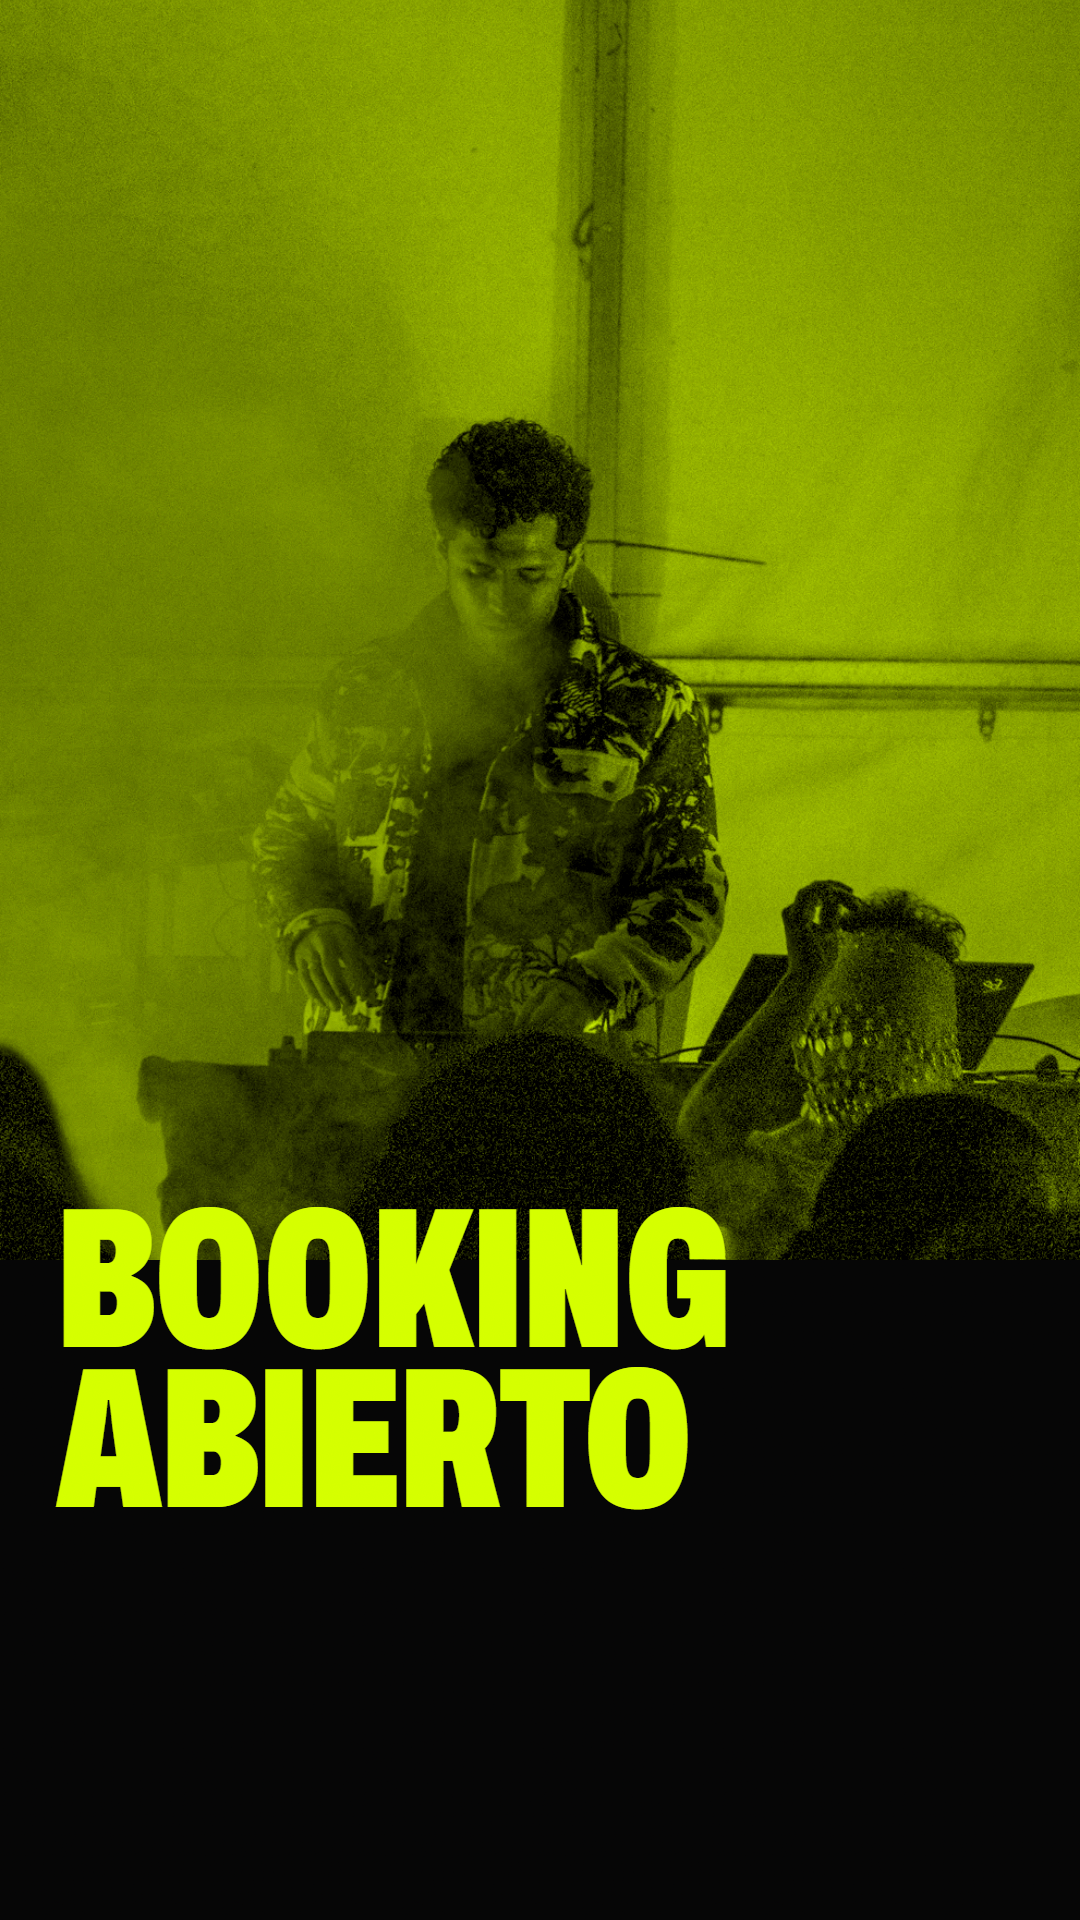
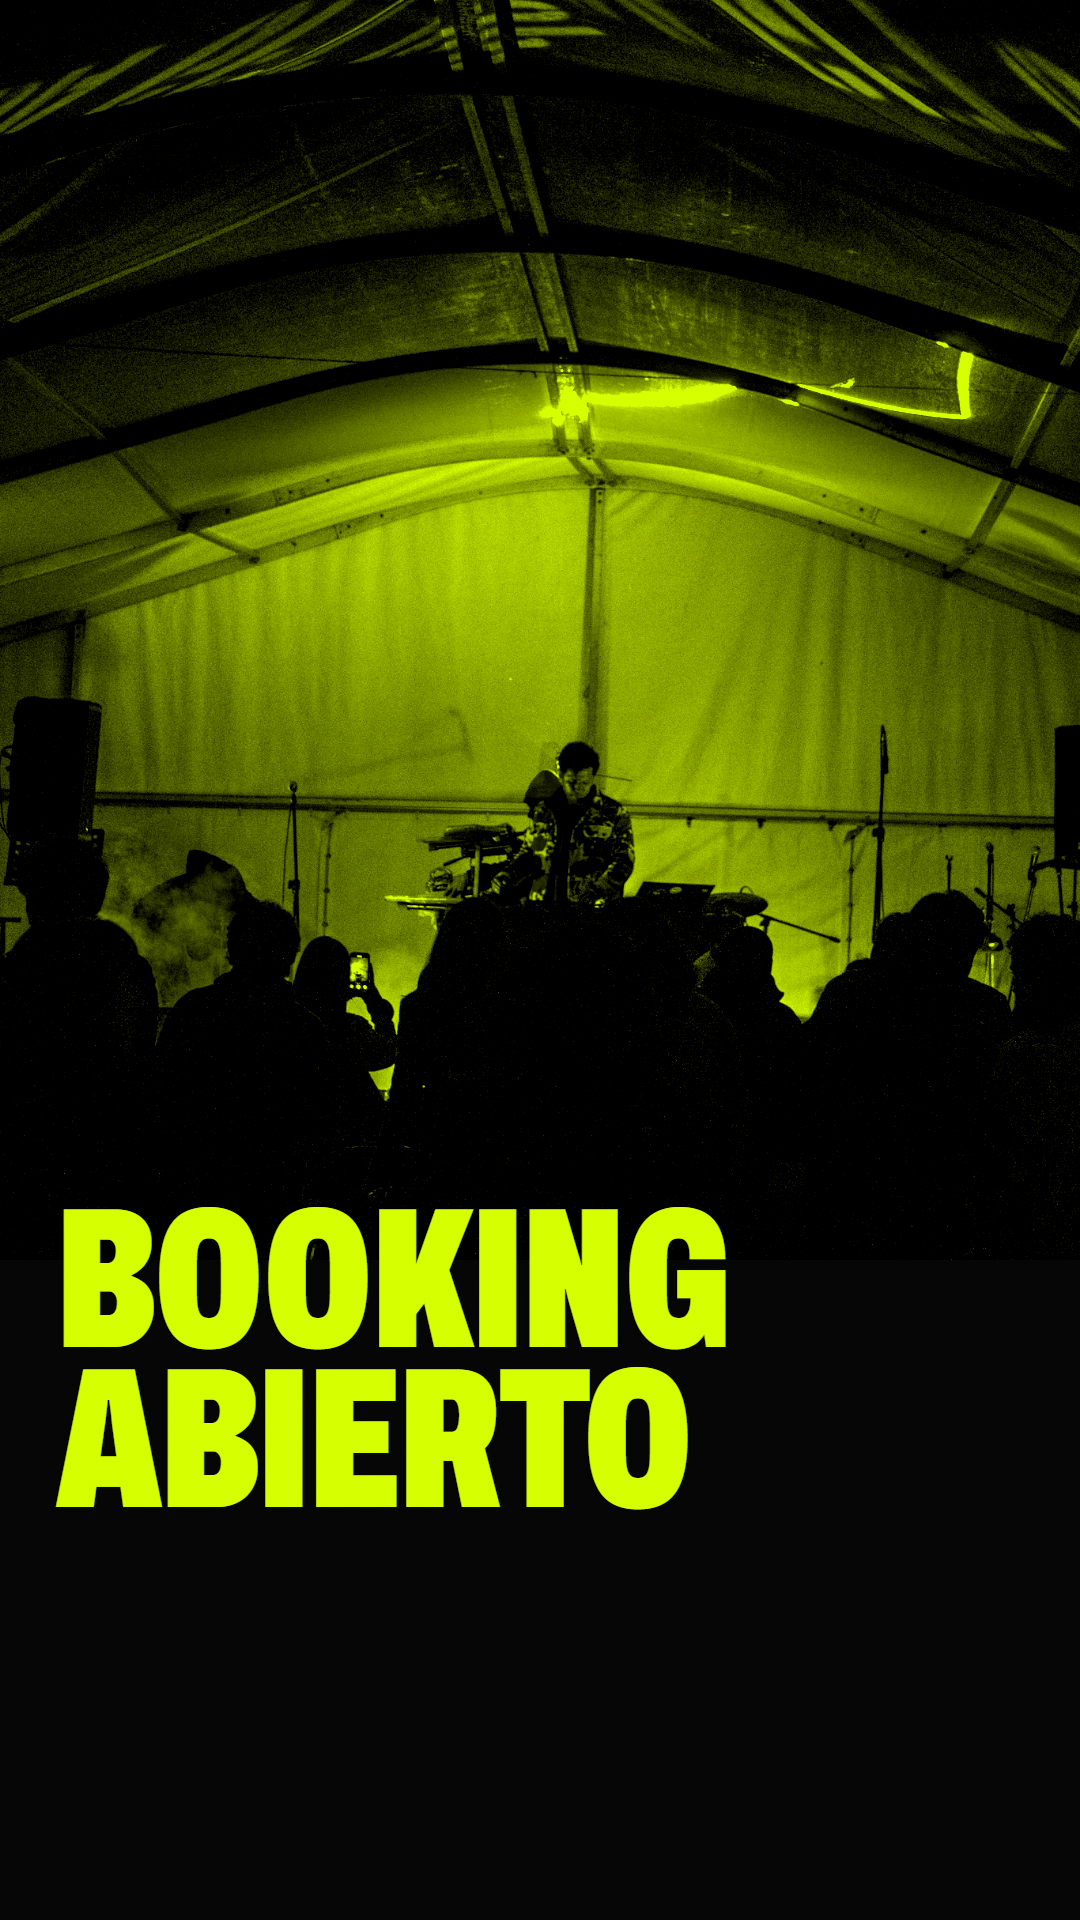
Takeover: fotos originales DSC07251 (portada, más cerca) y DSC07249 (cierre)

diff --git a/ig/index.html b/ig/index.html
@@ -46,15 +46,15 @@ code{color:var(--acid);word-break:break-all}
   <p class="muted">Carrusel minimal de 3 slides en dos formatos: feed 4:5 y las mismas 3 como historias 9:16. Del 16 al 28 de noviembre de 2026, venues por anunciar.</p>
   <h2 style="font-size:32px">Feed · 4:5</h2>
   <div class="grid">
-    <figure><a class="open" href="takeover-feed-m1.png" target="_blank" rel="noopener" aria-label="Abrir en tamaño completo"><img src="takeover-feed-m1.png" alt="Da Get Up en duotono verde ácido, formato feed" loading="lazy"></a><figcaption><span class="mono">01</span><a class="dl mono" href="takeover-feed-m1.png" download>Bajar</a></figcaption></figure>
+    <figure><a class="open" href="takeover-feed-m1.png" target="_blank" rel="noopener" aria-label="Abrir en tamaño completo"><img src="takeover-feed-m1.png" alt="Da Get Up entre humo en duotono verde ácido, formato feed" loading="lazy"></a><figcaption><span class="mono">01</span><a class="dl mono" href="takeover-feed-m1.png" download>Bajar</a></figcaption></figure>
     <figure><a class="open" href="takeover-feed-m2.png" target="_blank" rel="noopener" aria-label="Abrir en tamaño completo"><img src="takeover-feed-m2.png" alt="16 al 28 de noviembre de 2026, Medellín, formato feed" loading="lazy"></a><figcaption><span class="mono">02</span><a class="dl mono" href="takeover-feed-m2.png" download>Bajar</a></figcaption></figure>
-    <figure><a class="open" href="takeover-feed-m3.png" target="_blank" rel="noopener" aria-label="Abrir en tamaño completo"><img src="takeover-feed-m3.png" alt="Da Get Up entre humo, formatos y booking, formato feed" loading="lazy"></a><figcaption><span class="mono">03</span><a class="dl mono" href="takeover-feed-m3.png" download>Bajar</a></figcaption></figure>
+    <figure><a class="open" href="takeover-feed-m3.png" target="_blank" rel="noopener" aria-label="Abrir en tamaño completo"><img src="takeover-feed-m3.png" alt="escenario en vivo con público, booking abierto, formato feed" loading="lazy"></a><figcaption><span class="mono">03</span><a class="dl mono" href="takeover-feed-m3.png" download>Bajar</a></figcaption></figure>
   </div>
   <h2 style="font-size:32px">Historias · 9:16</h2>
   <div class="grid st">
-    <figure><a class="open" href="takeover-historia-n1.png" target="_blank" rel="noopener" aria-label="Abrir en tamaño completo"><img src="takeover-historia-n1.png" alt="Da Get Up en duotono verde ácido, formato historia" loading="lazy"></a><figcaption><span class="mono">01</span><a class="dl mono" href="takeover-historia-n1.png" download>Bajar</a></figcaption></figure>
+    <figure><a class="open" href="takeover-historia-n1.png" target="_blank" rel="noopener" aria-label="Abrir en tamaño completo"><img src="takeover-historia-n1.png" alt="Da Get Up entre humo en duotono verde ácido, formato historia" loading="lazy"></a><figcaption><span class="mono">01</span><a class="dl mono" href="takeover-historia-n1.png" download>Bajar</a></figcaption></figure>
     <figure><a class="open" href="takeover-historia-n2.png" target="_blank" rel="noopener" aria-label="Abrir en tamaño completo"><img src="takeover-historia-n2.png" alt="16 al 28 de noviembre de 2026, Medellín, formato historia" loading="lazy"></a><figcaption><span class="mono">02</span><a class="dl mono" href="takeover-historia-n2.png" download>Bajar</a></figcaption></figure>
-    <figure><a class="open" href="takeover-historia-n3.png" target="_blank" rel="noopener" aria-label="Abrir en tamaño completo"><img src="takeover-historia-n3.png" alt="Da Get Up entre humo, formatos y booking, formato historia" loading="lazy"></a><figcaption><span class="mono">03</span><a class="dl mono" href="takeover-historia-n3.png" download>Bajar</a></figcaption></figure>
+    <figure><a class="open" href="takeover-historia-n3.png" target="_blank" rel="noopener" aria-label="Abrir en tamaño completo"><img src="takeover-historia-n3.png" alt="escenario en vivo con público, booking abierto, formato historia" loading="lazy"></a><figcaption><span class="mono">03</span><a class="dl mono" href="takeover-historia-n3.png" download>Bajar</a></figcaption></figure>
   </div>
   <h2 style="font-size:32px">Caption del post</h2>
   <div class="cap" id="cap2">MEDELLÍN TAKEOVER

diff --git a/ig/src/piece.html b/ig/src/piece.html
@@ -175,12 +175,12 @@ body{color:var(--bone);font-family:var(--cond);-webkit-font-smoothing:antialiase
 
 <!-- 1 · Portada -->
 <section class="piece mt" id="m1">
-  <div class="dk" style="bottom:500px"><img src="img/david-green.webp" style="object-position:50% 12%"></div>
+  <div class="dk" style="bottom:500px"><img src="img/cover-07251.webp" style="object-position:50% 18%"></div>
   <img class="owl-ink" src="../../assets/img/owl.png" style="right:60px;top:60px">
   <p class="big" style="bottom:56px;font-size:254px;color:var(--acid)">Medellín<br>Takeover</p>
 </section>
 <section class="piece story mt" id="n1">
-  <div class="dk" style="bottom:750px"><img src="img/david-green.webp" style="object-position:50% 12%"></div>
+  <div class="dk" style="bottom:750px"><img src="img/cover-07251.webp" style="object-position:50% 18%"></div>
   <img class="owl-ink" src="../../assets/img/owl.png" style="right:60px;top:170px">
   <p class="big" style="bottom:300px;font-size:254px;color:var(--acid)">Medellín<br>Takeover</p>
 </section>
@@ -195,11 +195,11 @@ body{color:var(--bone);font-family:var(--cond);-webkit-font-smoothing:antialiase
 
 <!-- 3 · Booking -->
 <section class="piece mt" id="m3">
-  <div class="dk" style="bottom:400px"><img src="img/david-fog.webp" style="object-position:50% 30%"></div>
+  <div class="dk" style="bottom:400px"><img src="img/close-07249.webp" style="object-position:50% 62%;filter:grayscale(1) contrast(1.35) brightness(1.3)"></div>
   <p class="big" style="bottom:56px;font-size:200px;color:var(--acid)">Booking<br>abierto</p>
 </section>
 <section class="piece story mt" id="n3">
-  <div class="dk" style="bottom:660px"><img src="img/david-fog.webp" style="object-position:50% 30%"></div>
+  <div class="dk" style="bottom:660px"><img src="img/close-07249.webp" style="object-position:50% 62%;filter:grayscale(1) contrast(1.35) brightness(1.3)"></div>
   <p class="big" style="bottom:400px;font-size:200px;color:var(--acid)">Booking<br>abierto</p>
 </section>
 
